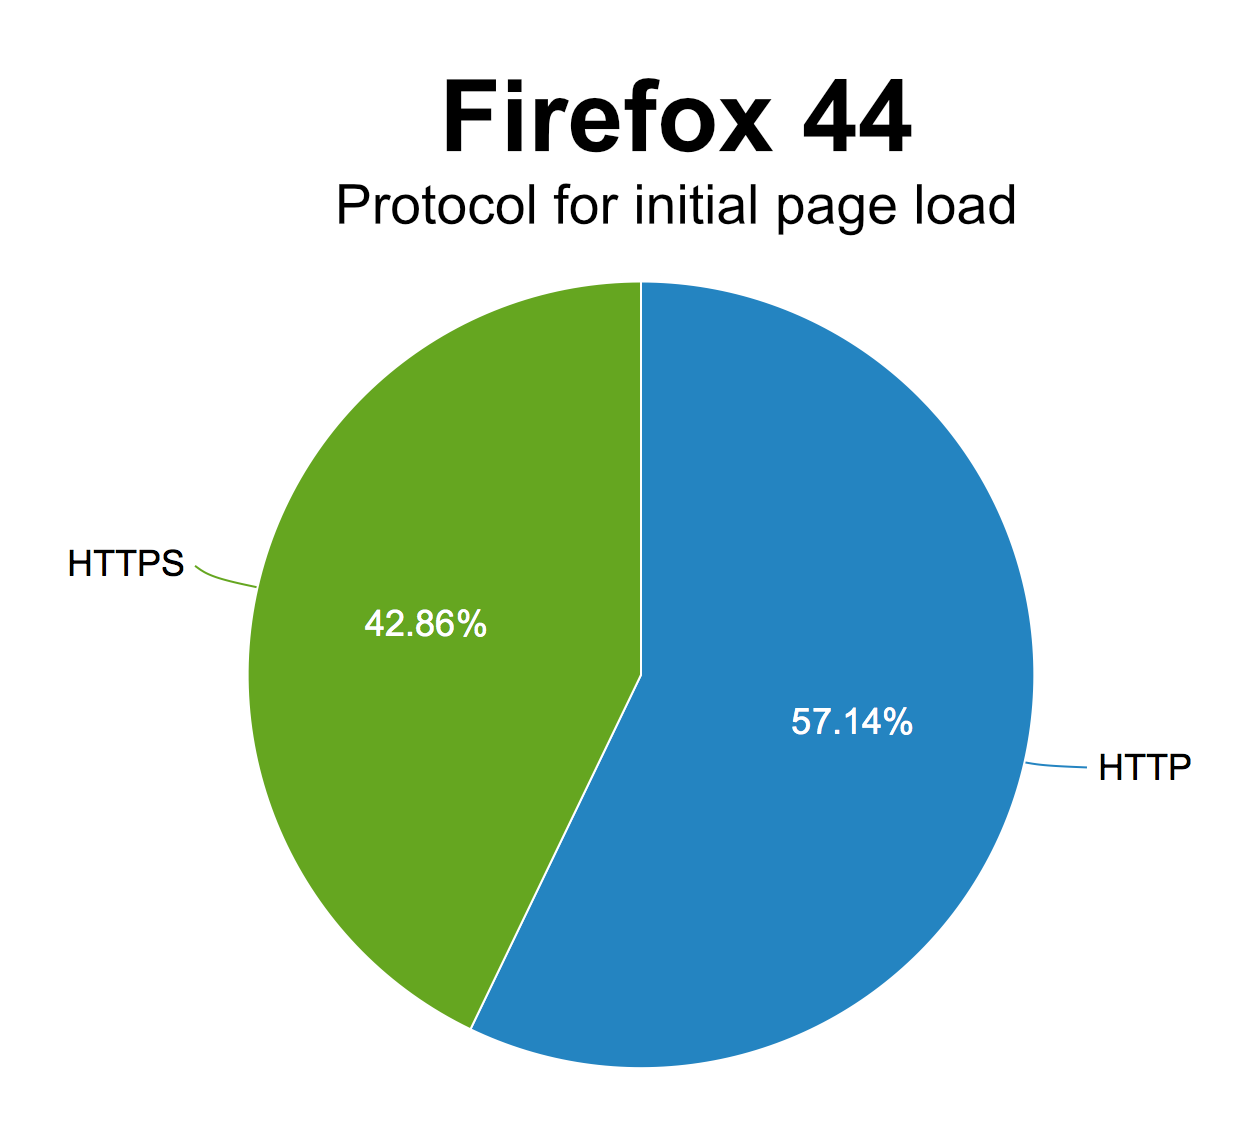
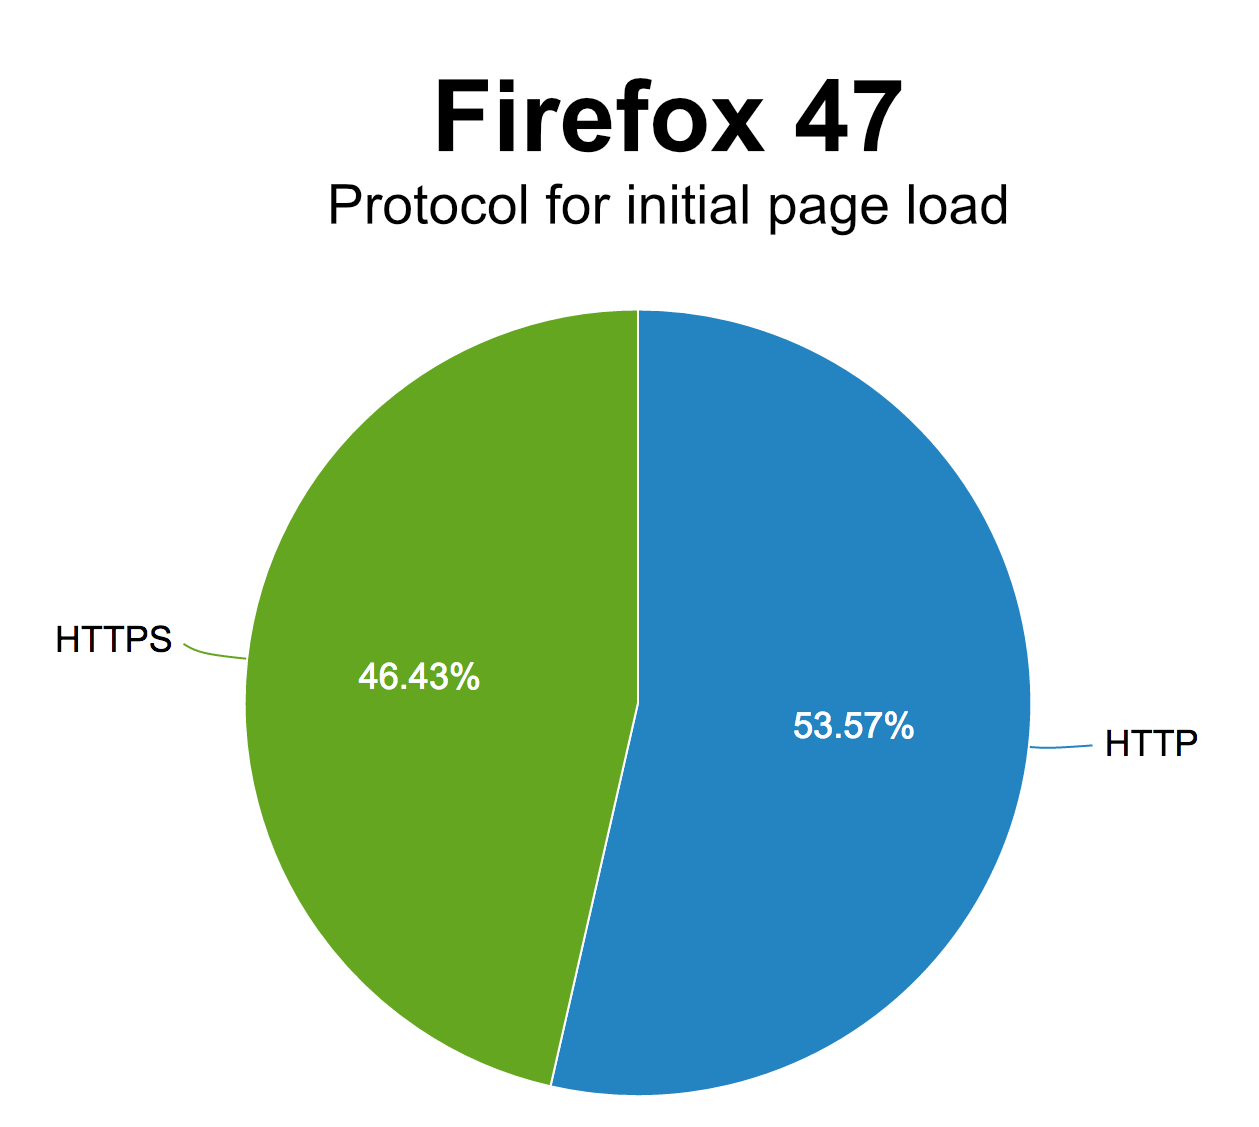
update for september 2016

diff --git a/index-en.html b/index-en.html
@@ -71,21 +71,23 @@
         </section>
 
         <section style="padding-top: 0;">
-          <h2>20 Years Later</h2>
+          <h2>21 Years Later</h2>
           <div>
             <img src="img/encrypted-vs-unencrypted.png" style="height: 380px;">
           </div>
           <ul>
             <li>Not enough HTTPS on the Internet
               <ul>
-                <li><a href="https://mzl.la/1LG5eZp">~43% of initial page loads</a></li>
-                <li><a href="https://mzl.la/1LG5cAy">~65% of all subsequent requests</a></li>
+                <!-- See:
+                  https://mzl.la/1LG5eZp (41%) / https://mzl.la/1LG5cAy (65%) (October 2015)
+                -->
+                <li><a href="https://mzl.la/29nPizc">~46% of initial page loads</a></li>
+                <li><a href="https://mzl.la/29nOXMV">~63% of all subsequent requests</a></li>
               </ul>
             </li>
           </ul>
           <aside class="notes">
-            Since the release of Let's Encrypt, the percentage has gone up 3%
-            Privacy and security are fundamental and must not be treated as optional
+            Since the release of Let's Encrypt, the percentage has gone up 5%
           </aside>
         </section>
 
@@ -114,7 +116,7 @@
         </section>
 
         <section>
-          <h2>Why Haven't We Fixed This?</h2>
+          <h2>Why has this been so hard to fix?</h2>
           <aside class="notes">
             DAMN YOU, IETF. WHY ISN'T THIS FIXED?
             OK, so security is pretty important. Why isn't it the default?
@@ -149,7 +151,7 @@
 
         <section>
           <img src="img/letsencrypt-logo-horizontal.svg" class="plain" style="width: 50%;"/>
-          <h2 style="color: #2C3C69; font-family: Gibson, Arial, Helvetica, sans-serif; font-size: 1.6em; font-weight: 600; margin-top: -.25em; text-transform: none;">is a new certificate authority</h2>
+          <h2 style="color: #2C3C69; font-family: Gibson, Arial, Helvetica, sans-serif; font-size: 1.6em; font-weight: 600; margin-left: .6em; margin-top: -.25em; text-transform: none;">is here to save the day</h2>
         </section>
 
         <section>
@@ -204,7 +206,7 @@
           <section>
             <h2>A <u>Cooperative</u> CA</h2>
             <a href="https://letsencrypt.org/sponsors/">
-              <img style="height: 350px" src="img/sponsors.png"/>
+              <img style="height: 300px" src="img/sponsors.png"/>
             </a>
             <ul>
               <li>Wide industry sponsorship</li>
@@ -245,6 +247,7 @@
             <img src="img/ietf-acme.png" style="height: 250px;">
             <ul>
               <li>The ACME protocol is in the process being <a href="https://tools.ietf.org/wg/acme/">standardized by the IETF</a> so that it can be used by all CAs</li>
+              <li>Support for ACME is spreading: StartCom (StartSSL) is switching to ACME after multiple security issues with their custom API</li>
               <li>Help for users is provided by an open <a href="https://community.letsencrypt.org/">community support system</a></li>
             </ul>
             <aside class="notes">
@@ -268,7 +271,7 @@
             <ul>
               <li>Increasing numbers of web hosts (<a href="https://www.dreamhost.com/blog/2015/12/03/lets-encrypt-and-dreamhost/">Dreamhost</a>, <a href="https://community.akamai.com/thread/2782">Akamai</a>, <a href="#">Wordpress.com</a>, Shopify, Cyon.ch, and many more...)</li>
               <li>Dozens of community-written clients, written in languages from Golang to BASH</li>
-              <li>Future: <tt>mod-acme</tt> for Apache? <a href="https://wiki.mozilla.org/Security/Automation/Winter_Of_Security_2015/Certificate_Automation_tooling_for_Lets_Encrypt">nginx patch in progress!</a></li>
+              <li>Future: <tt>mod-acme</tt> for Apache? <a href="https://wiki.mozilla.org/Security/Automation/Winter_Of_Security_2015/Certificate_Automation_tooling_for_Lets_Encrypt">nginx patch?</a></li>
               <li><a href="https://caddyserver.com/">Caddy</a> HTTP/2 server</li>
             </ul>
             <aside class="notes">
@@ -298,31 +301,65 @@
                  data-fallback="img/le-cert-graph.png"/>
           </a>
           <aside class="notes">
-            GA on December 3rd; 1.0M certs covering 2.6M unique FQDNs, which include 1.1M Registered Domains.
+            GA on December 3rd; 5.5M certs covering (presumably 14M?) unique FQDNs, which include (presumably 6M) Registered Domains.
           </aside>
         </section>
 
         <section>
           <h2>Growing the Secure Web</h2>
-          <img src="img/names-issued-elsewhere.png" style="height: 500px;">
+          <img src="img/dreamhost.png" style="height: 180px">
+          <ul>
+            <li>Of sites secured with Let's Encrypt, about <a href="img/names-issued-elsewhere.png">94%</a> have never had certificates before</li>
+            <li>Large providers such as DreamHost, WordPress, Shopify, OVH, Akamai, and Bitly have rolled out large-scale deployments</li>
+            <li>Widely used software such as cPanel / WHM now have integrated, automatic certificate generation</li>
+          </ul>
+
           <aside class="notes">
-            GA on December 3rd; 1.0M certs covering 2.6M unique FQDNs, which include 1.1M Registered Domains.
+            OVH (11.67%), cPanel (6.82%), Wordpress (2.01%)
           </aside>
         </section>
 
-        <section>
+        <section style="padding-top: 0;">
           <h2>How Big Is Let's Encrypt?</h2>
-          <img src="img/unexpired-certs-by-issuer.png" style="height: 400px;">
+          <img src="img/pageload-is-ssl.png" style="height: 300px;">
           <ul>
-            <li>General availability began December 3, 2015 and is already the 4<sup style="font-size: .8em; position: relative; top: -.4em; vertical-align: baseline;">th</sup> largest issuer of certificates on the public web</li>
+            <li>General availability began December 3, 2015 and is already the largest issuer of certificates on the web</li>
+            <li>21<sup style="font-size: .8em; position: relative; top: -.4em; vertical-align: baseline;">st</sup> most commonly encountered CA on the web</li>
+            <li>Since its release, HTTPS usage has grown from 39% to 45%, an astounding jump</li>
           </ul>
           <aside class="notes">
             GA on December 3rd; 1.0M certs covering 2.6M unique FQDNs, which include 1.1M Registered Domains.
           </aside>
         </section>
 
+        <section style="padding-top: 0;">
+          <h2>Popular the World 'Round</h2>
+          <img src="img/geographical-popularity.png" style="height: 420px;">
+          <ul>
+            <li>Greatest popularity is North America and Europe, perhaps reflecting availability of documentation, software, and internationalized domain support</li>
+          </ul>
+        </section>
+
         <section>
-          <h2>Only the Beginning&hellip;</h2>
+          <h2>Past &amp; Future</h2>
+          <ul>
+            <li class="fragment">2016 (January): ACME DNS support</li>
+            <li class="fragment">2016 (March): Full XP support</li>
+            <li class="fragment">2016 (July): Full support for IPv6</li>
+            <li class="fragment">2016 (August): Greater rate limits</li>
+            <li class="fragment">2016 (November): Internationalized domain support</li>
+            <li class="fragment">2016 (November): Firefox root integration</li>
+            <li class="fragment">2017 (March): ECDSA intermediaries</li>
+          </ul>
+          <aside class="notes">
+            DC limitations (no IPv6, half-duplex on upstream router)
+            Rates: 20 certs/domain/week, 100 names/cert, 5 dupes/week, renewals exempted (allowing ramp up), 500 regs/IP/3 hours, 300 pending auth/account
+            Firefox 50
+          </aside>
+        </section>
+
+        <section>
+          <h2>A Beautiful Dream&hellip;</h2>
           <ul>
             <li class="fragment" style="margin-top: .75em;">Get every website using HTTPS</li>
             <li class="fragment">Secure <em>all</em> the internet: email, chat, and more!</li>
@@ -333,18 +370,8 @@
         </section>
 
         <section>
-          <h2>A Message to the World</h2>
-          <img src="img/verifiedby.png" style="height: 400px;">
-        </section>
-
-        <section>
           <h2>Questions &amp; Answers</h2>
-          <ul>
-            <li class="fragment">LE Operations?</li>
-            <li class="fragment">Web PKI?</li>
-            <li class="fragment">CA/Browser Forum? IETF?</li>
-            <li class="fragment">HTTPS Everywhere?</li>
-          </ul>
+          <img src="img/verifiedby.png" style="height: 400px;">
           <aside class="notes">
             Let's get your questions. What're your questions? Here's some ideas of things you can ask me about.
           </aside>
